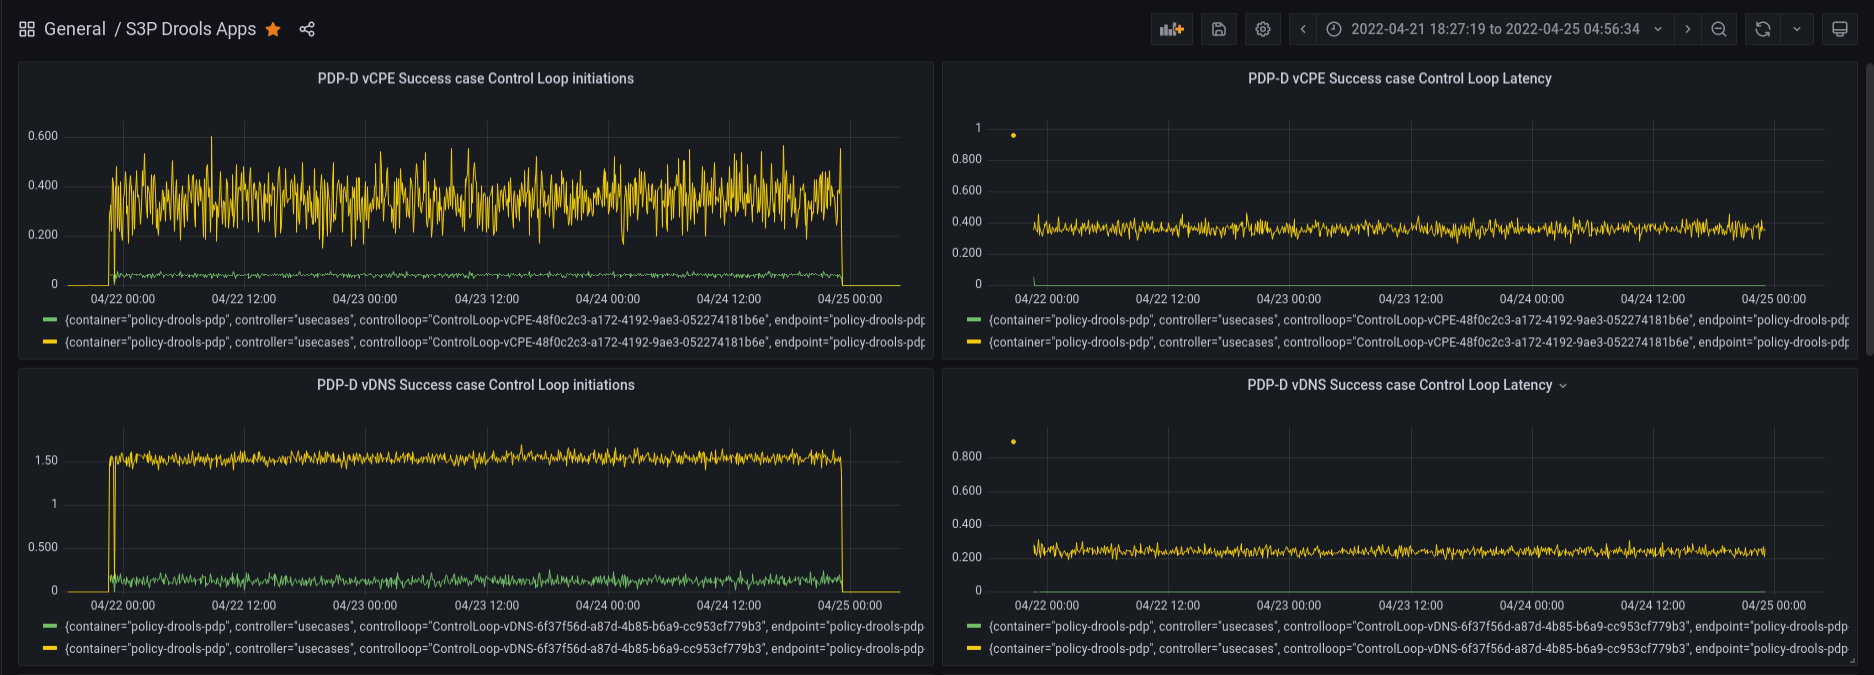
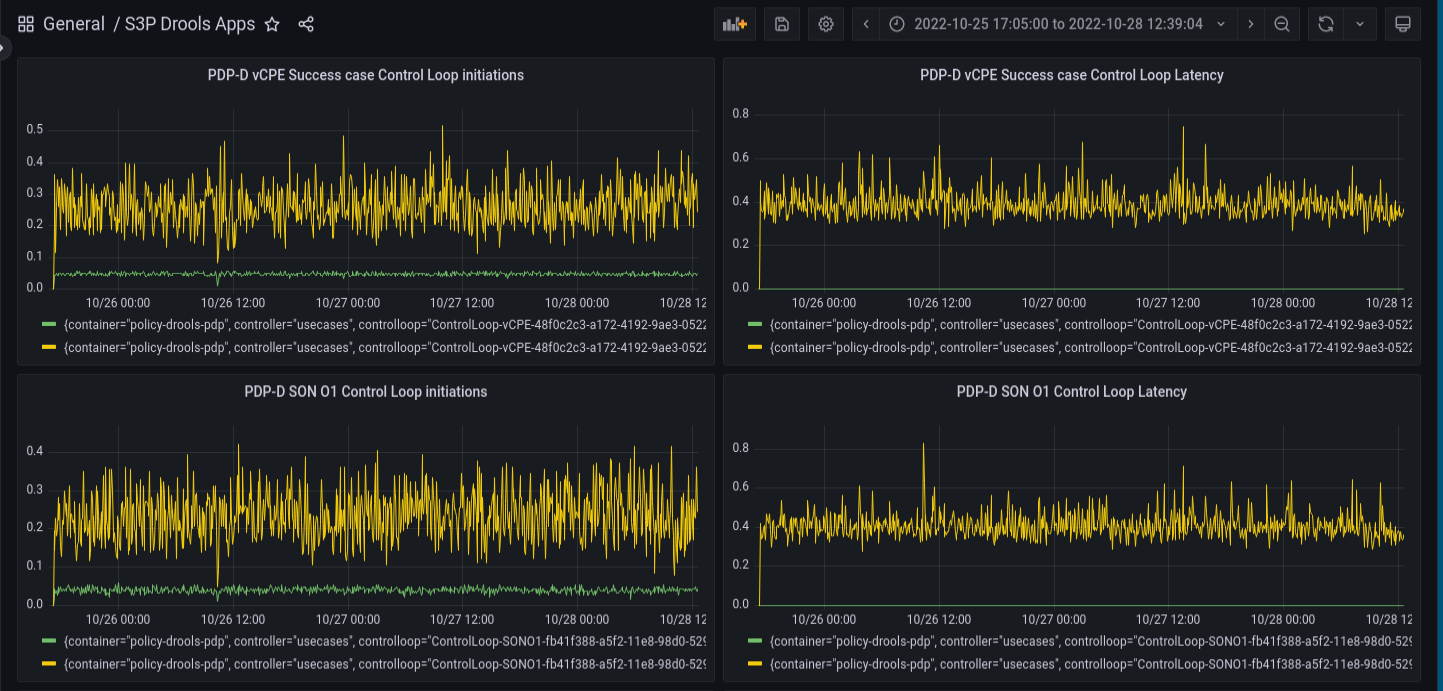
Add s3p docs for xacml and drools
Issue-ID: POLICY-4446
(cherry picked from commit 457d1d40a54adc30b3afdb7245a7d53828f6239c)

diff --git a/docs/development/devtools/drools-s3p.rst b/docs/development/devtools/drools-s3p.rst
@@ -32,12 +32,11 @@ Other ONAP components exercised during the stability tests were:
 - Policy API to create (and delete at the end of the tests) policies for each
   scenario under test.
 - Policy PAP to deploy (and undeploy at the end of the tests) policies for each scenario under test.
+- XACML PDP Stability test was running at the same time.
 
 The following components are simulated during the tests.
 
-- SO actor for the vDNS use case.
-- APPC responses for the vCPE and vFW use cases.
-- AAI to answer queries for the use cases under test.
+- SDNR.
 
 Stability Test of Policy PDP-D
 ******************************
@@ -45,30 +44,21 @@ Stability Test of Policy PDP-D
 PDP-D performance
 =================
 
-The tests focused on the following use cases:
+The tests focused on the following use cases running in parallel:
 
 - vCPE
-- vDNS
-- vFirewall
+- SON O1
+- SON A1
 
-For 72 hours the following 5 scenarios ran in parallel:
-
-- vCPE success scenario
-- vDNS success scenario.
-- vFirewall success scenario.
-- vCPE failure scenario (simulates a failure scenario returned by simulated APPC recipient through DMaaP).
-- vDNS failure scenario (simulates a failure by introducing in the DCAE ONSET a non-existent vserver-name reference).
-
-Five threads ran in parallel, one for each scenario, back to back with no pauses.   The transactions were initiated
-by each jmeter thread group.   Each thread initiated a transaction, monitored the transaction, and
-as soon as the transaction ending was detected, it initiated the next one.
+Three threads ran in parallel, one for each scenario.  The transactions were initiated
+by each jmeter thread group.  Each thread initiated a transaction, monitored the transaction, and
+started the next one 250 ms. later.
 
 The results are illustrated on the following graphs:
 
 .. image:: images/s3p-drools-1.png
 .. image:: images/s3p-drools-2.png
 .. image:: images/s3p-drools-3.png
-.. image:: images/s3p-drools-4.png
 
 
 Commentary
@@ -79,13 +69,6 @@ final output of jmeter:
 
 .. code-block:: bash
 
-    summary = 37705505 in 72:00:56 =  145.4/s Avg:    30 Min:     0 Max: 20345 Err: 360852 (0.96%)
+    summary = 4751546 in 72:00:37 =   18.3/s Avg:   150 Min:     0 Max: 15087 Err: 47891 (1.01%)
 
-The 1% errors were found to be related to the nature of the run, where each one of the 5 use case
-threads run without pauses starting one after the other a new round of their assigned control loop.
-It has been found that at times, the release time of the lock (which requires DB operations) outruns
-the initiation of the next control loop (using the same resource), therefore the newly initiated control
-loop fails.  In reality, this scenario with the same resource being used back to back in consecutive control
-loop rounds will be unlikely.
-
-
+Sporadic database errors have been observed and seem related to the 1% failure percentage rate.

diff --git a/docs/development/devtools/xacml-s3p.rst b/docs/development/devtools/xacml-s3p.rst
@@ -9,8 +9,8 @@
 
 ##########################
 
-Performance Test of Policy XACML PDP
-************************************
+Performance Test of Policy XACML PDP (Jakarta)
+**********************************************
 
 The Performance test was executed by performing requests
 against the Policy RESTful APIs.
@@ -69,9 +69,15 @@ The test was run for 20 minutes with 10 users (i.e., threads), with the followin
 
 
 Stability Test of Policy XACML PDP
-************************************
+**********************************
 
-The stability test were executed in the same lab.   The test was run via jmeter.
+This test was run using jmeter on a default
+ONAP installation in the Policy tenant in UNH.
+
+The Agent VMs in this lab have the following configuration:
+
+- 16GB RAM
+- 8 VCPU
 
 Summary
 =======
@@ -120,9 +126,9 @@ The stability summary results were reported by JMeter with the following summary
 
 .. code-block:: bash
 
-    summary = 997436933 in 71:59:45 = 3848.4/s Avg:     0 Min:     0 Max:  1480 Err:     0 (0.00%)
+    summary = 941639699 in 71:59:36 = 3633.2/s Avg:     1 Min:     0 Max:   842 Err:     0 (0.00%)
 
-The XACML PDP offered very good performance with JMeter for the traffic mix described above, using 3848 threads per second
-to inject the traffic load.   The average transaction time is insignificant.   The maximum transaction time of 1480ms.
-occured in the beginning of the run while the JVM was warming up.
+The XACML PDP offered very good performance with JMeter for the traffic mix described above.
+The average transaction time is insignificant.  The maximum transaction time of 842 ms.
+There was a Drools stability test running in parallel, hence the actual load was higher.
 
